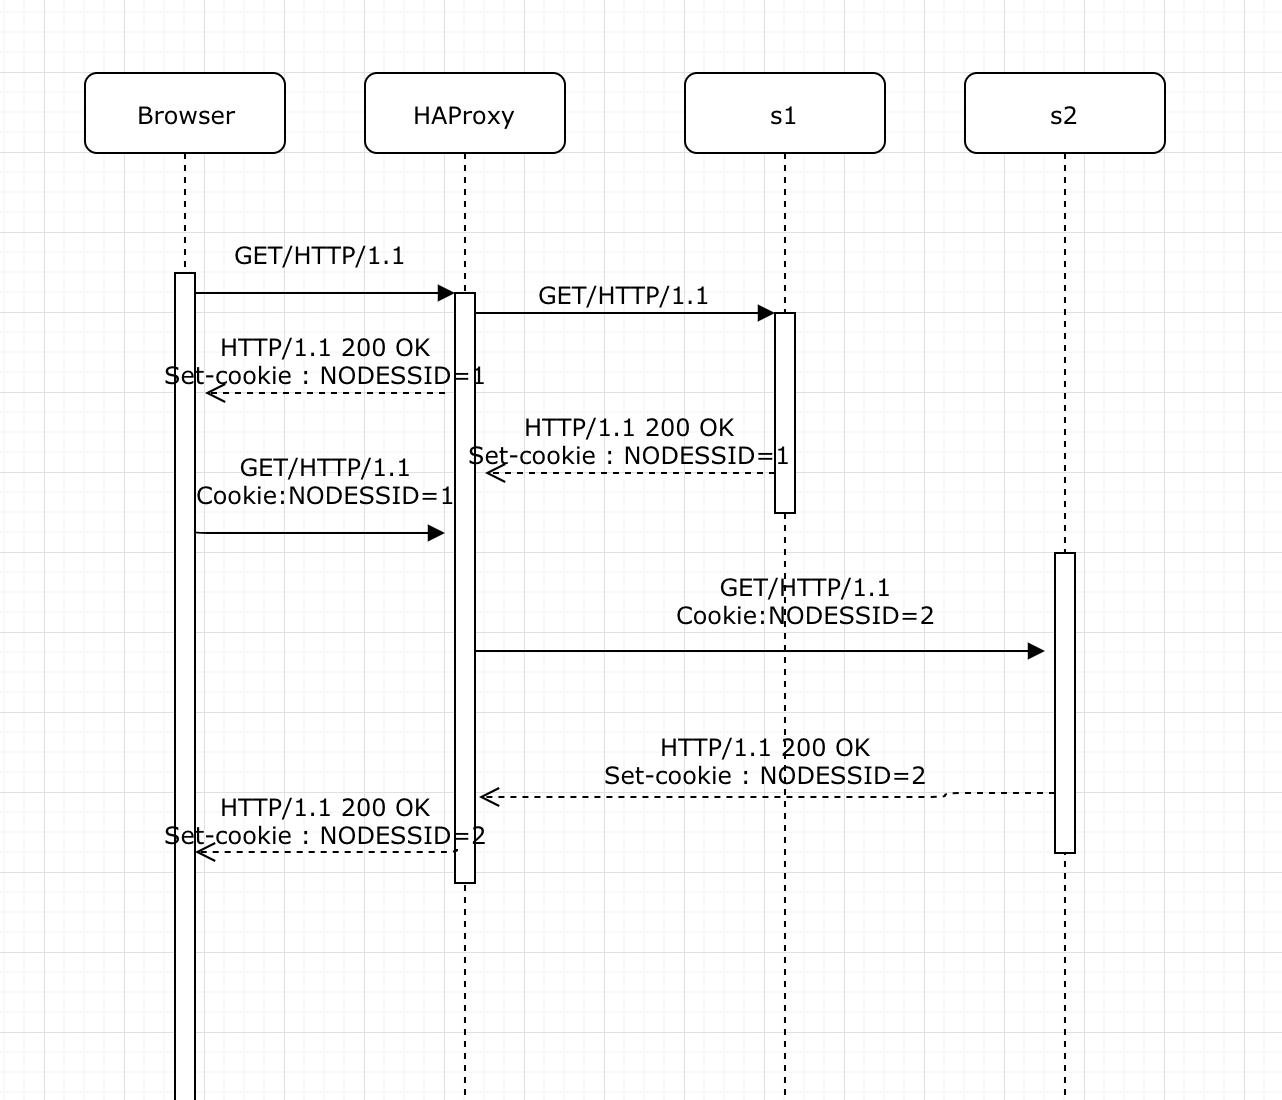
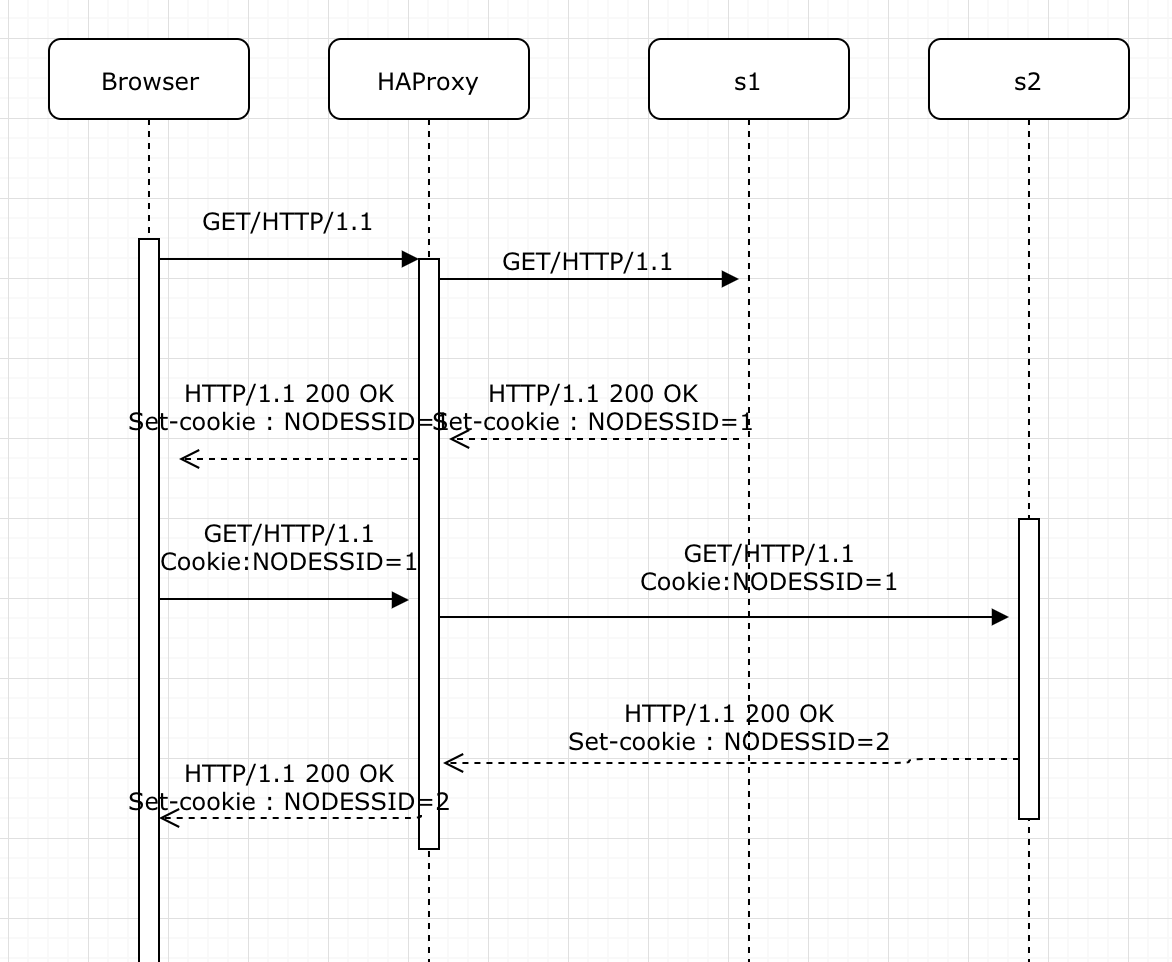
modifs de diagrammes

diff --git a/Rapport.md b/Rapport.md
@@ -57,7 +57,7 @@ Nous obtenons en lancant sur postant un requete sur l'adresse http://192.168.42.
 
 2. A correct usage of the load balancer should not be based on a round robin configuration but redirect the request according to servers charge with the appropriate cookie to keep the session.
 
-3. Diagram explainig what happens when we execute a request and then resfreshes the page.
+3. Diagram explaining what happens when we execute a request and then resfreshes the page.
 
 	![alt](img/diag1.png) 
 
@@ -72,6 +72,8 @@ Nous obtenons en lancant sur postant un requete sur l'adresse http://192.168.42.
 	![alt](img/11.png) 
 	
 	Since the s2 server is no longer available, the round robin will not be changing on each new request. So instead of changing from s1 to s2 it will remain on the unique server available: s1.
+	
+	Here is an example of diagramm with cookie session with NODESSID:
 	
 	![alt](img/diag2.png) 
 
